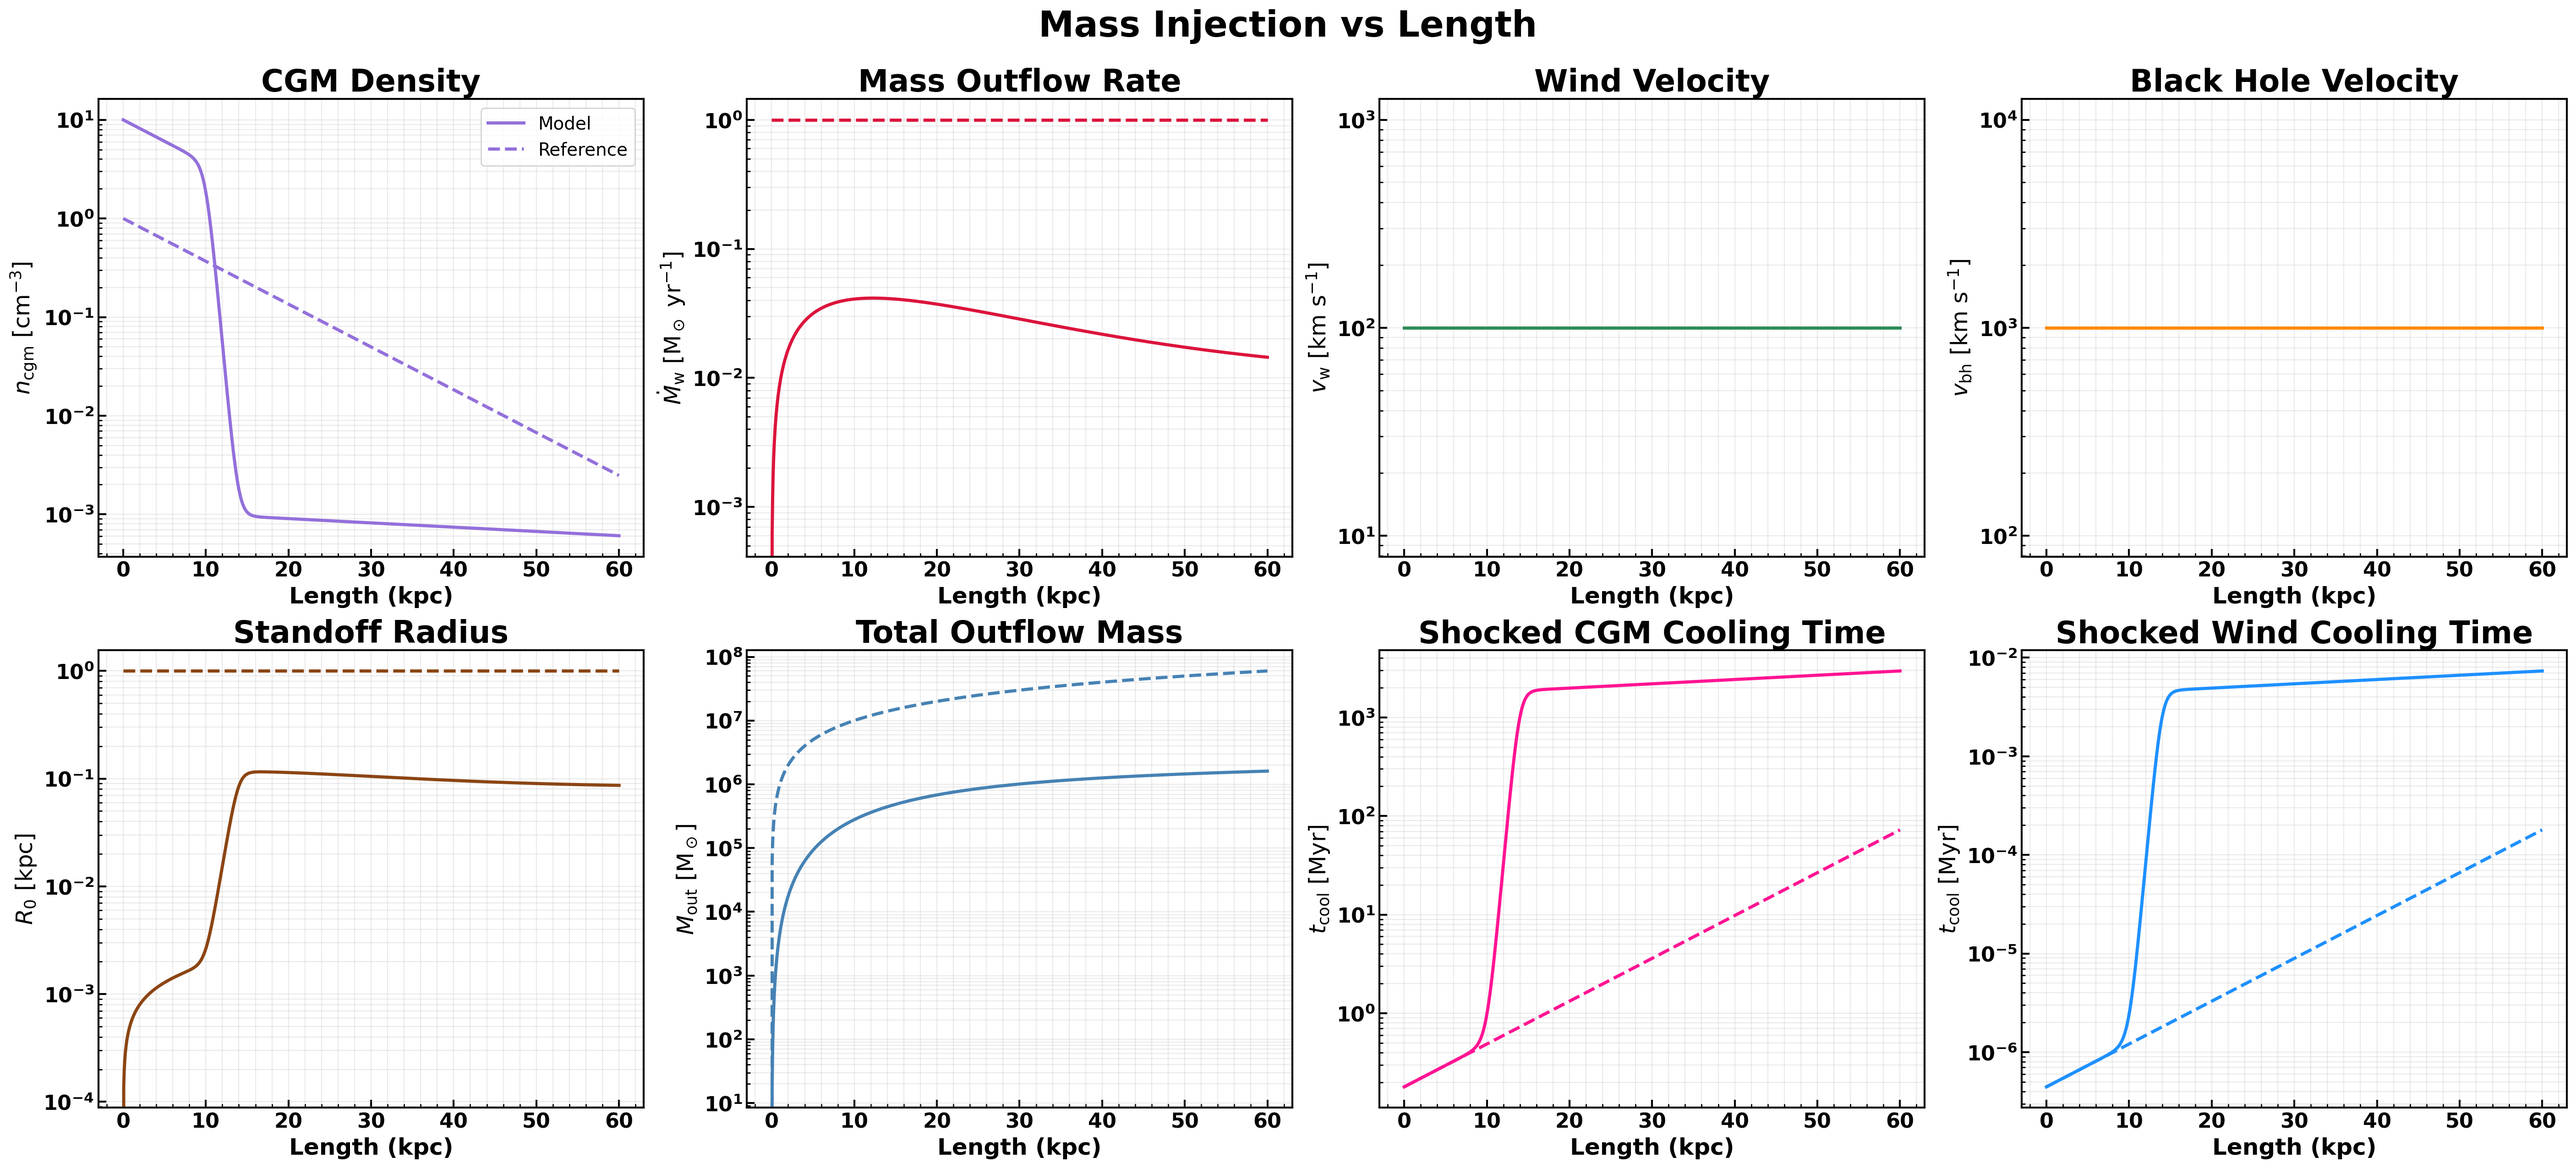
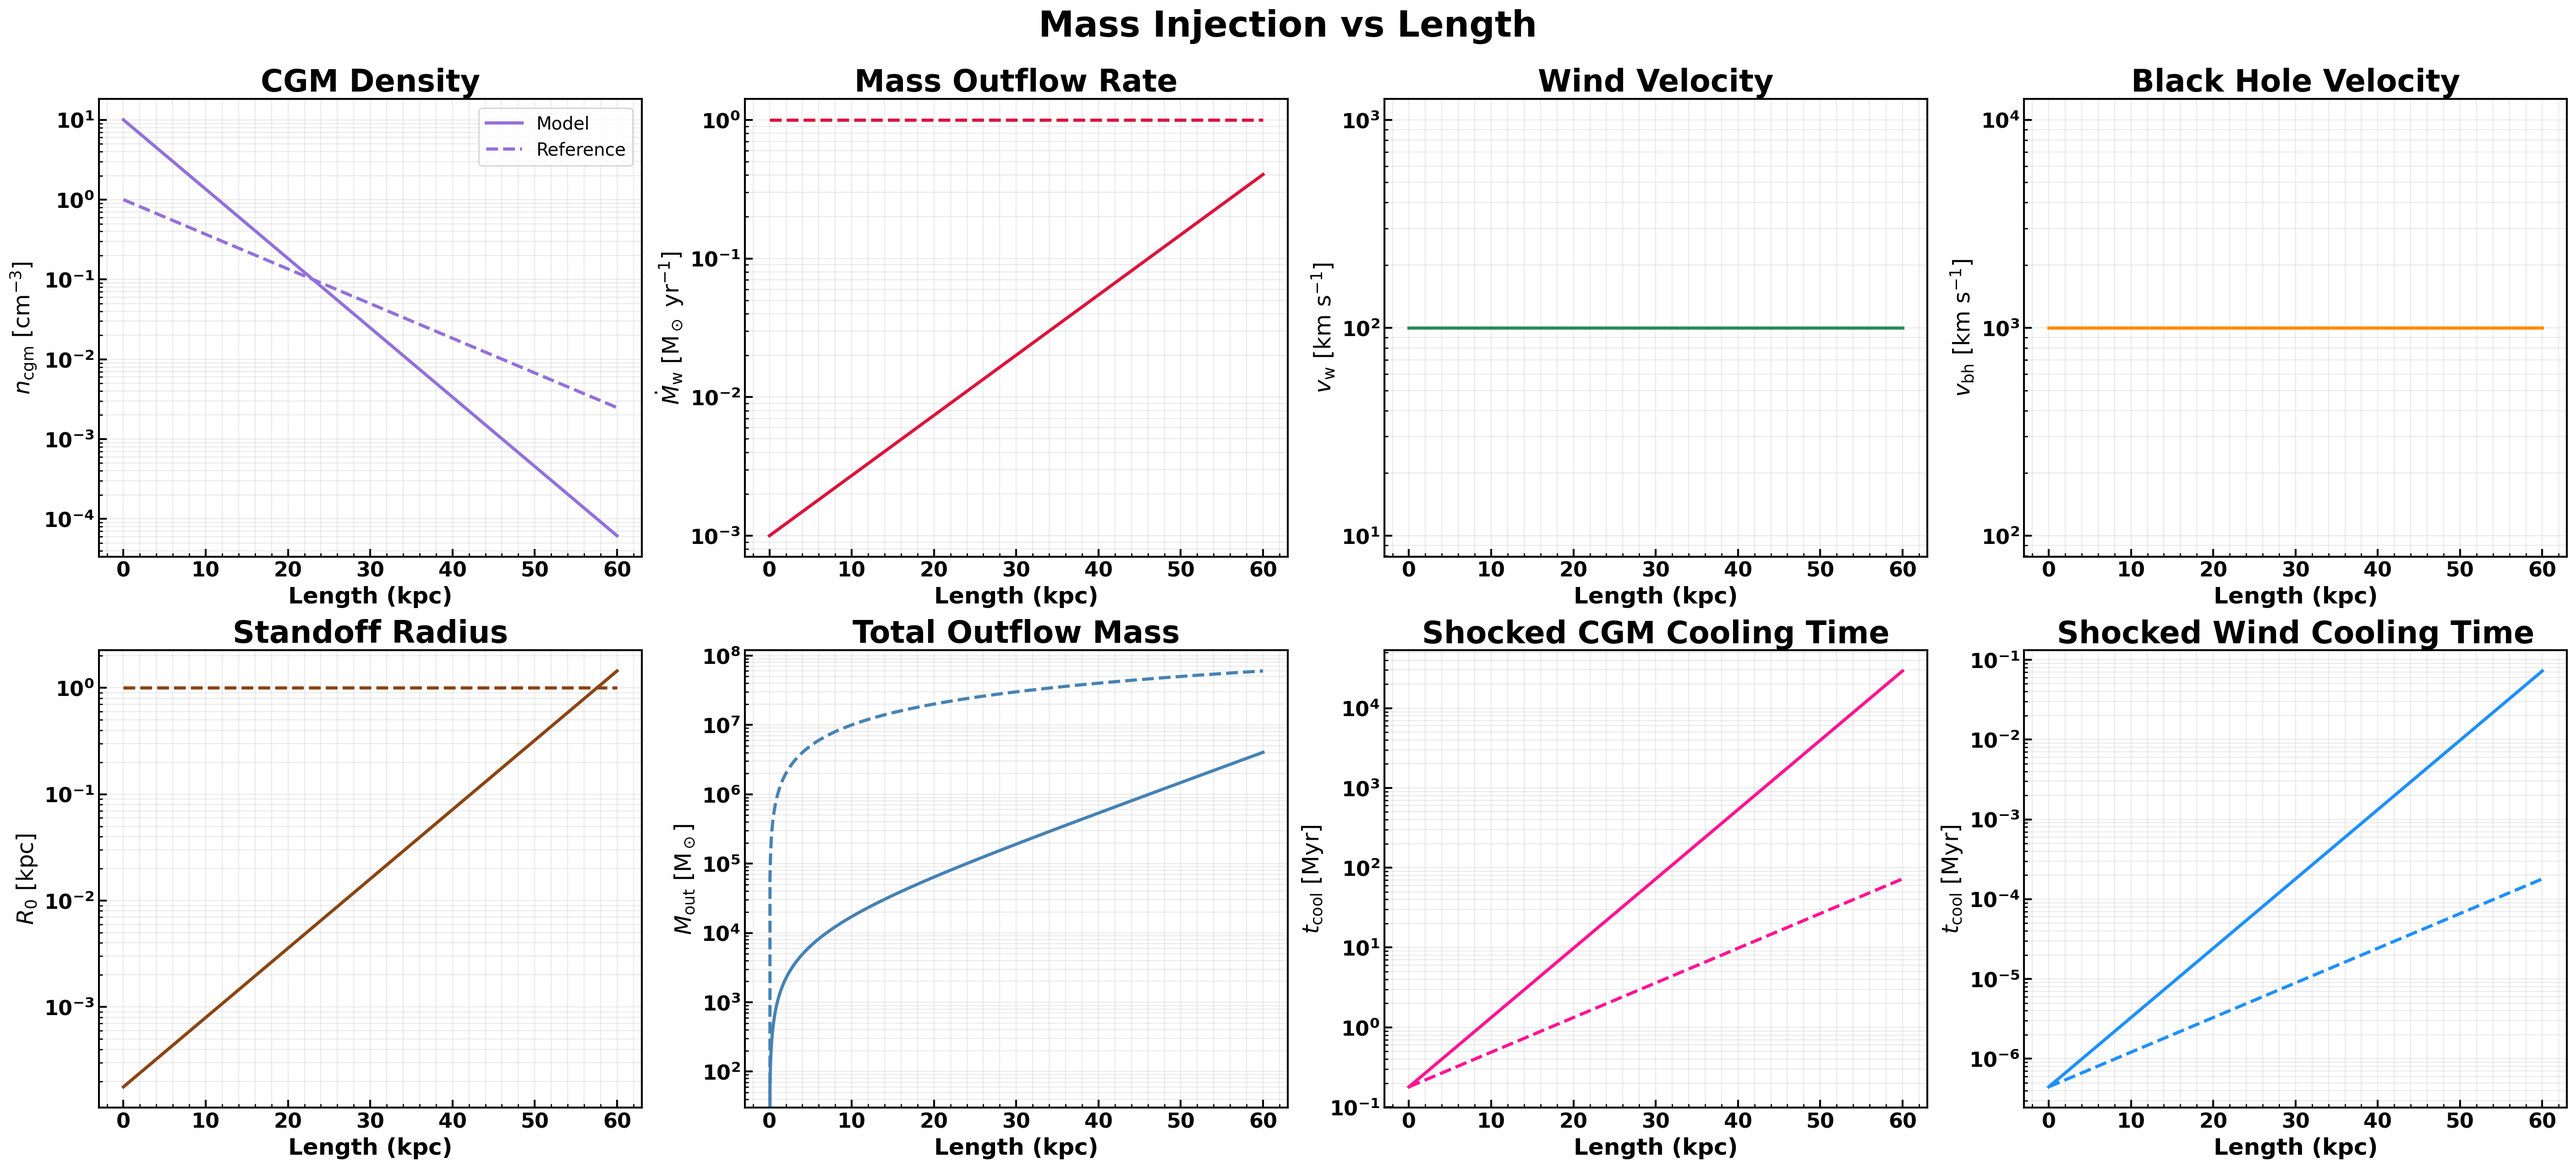
added new Mdot vs L

diff --git a/AnalyticalSol/Mdot_params/Mdot_vs_L2.py b/AnalyticalSol/Mdot_params/Mdot_vs_L2.py
@@ -1,0 +1,205 @@
+import numpy as np
+import os
+import math
+import matplotlib.pyplot as plt
+import matplotlib as mpl
+from scipy.interpolate import interp1d
+from scipy.integrate import cumulative_trapezoid
+
+script_dir = os.path.dirname(os.path.abspath(__file__))
+
+# ── Global style ─────────────────────────────────────────────────────────────
+font_size   = 18          # axis labels
+tick_size   = 16          # tick labels
+title_size  = font_size + 6
+suptitle_size = font_size + 10
+
+mpl.rcParams.update({
+    "font.family":        "sans-serif",
+    "axes.titlesize":     title_size,
+    "axes.titleweight":   "bold",
+    "axes.labelsize":     font_size,
+    "axes.labelweight":   "bold",
+    "xtick.labelsize":    tick_size,
+    "ytick.labelsize":    tick_size,
+    "xtick.major.width":  1.5,
+    "ytick.major.width":  1.5,
+    "xtick.minor.width":  1.0,
+    "ytick.minor.width":  1.0,
+    "xtick.major.size":   6,
+    "ytick.major.size":   6,
+    "xtick.minor.size":   3,
+    "ytick.minor.size":   3,
+    "xtick.direction":    "in",
+    "ytick.direction":    "in",
+    "axes.linewidth":     1.5,
+    "lines.linewidth":    2.5,
+    "grid.alpha":         0.25,
+    "grid.linewidth":     0.8,
+    "legend.fontsize":    tick_size - 2,
+})
+
+def bold_ticks(ax):
+    """Make all tick labels bold."""
+    for label in ax.get_xticklabels() + ax.get_yticklabels():
+        label.set_fontweight("bold")
+
+# ── Physics / model functions ────────────────────────────────────────────────
+def n_cgm(L_kpc):
+    n_ISM_L = n_ISM_mp_cc * np.exp(-L_kpc / H_ISM_kpc)
+    n_CGM_L = n_CGM_mp_cc * np.exp(-(L_kpc - L_tr_kpc) / H_CGM_kpc)
+    w = 0.5 * (1.0 + np.tanh((L_kpc - L_tr_kpc) / dL_kpc))
+    return (1.0 - w) * n_ISM_L + w * n_CGM_L
+    # return n_ISM_L*np.exp(-L_kpc/10)
+
+def v_bh(L_kpc):
+    return vbh_f * np.ones_like(L_kpc)
+
+
+def v_w(L_kpc):
+    dL = 5
+    L_tr = 10
+    vw_0_L = vw_0 * np.exp(-L_kpc / (10*H_ISM_kpc))
+    vw_f_L = vw_f* np.exp(-(L_kpc - L_tr) / (10*H_CGM_kpc))
+    w = 0.5 * (1.0 + np.tanh((L_kpc - L_tr) / dL))
+    return (1.0 - w) * vw_0_L + w * vw_f_L
+    # return vw_f* np.exp(np.exp(-1*(L_kpc / dL)))
+    # return vw_0* np.exp(-1*(L_kpc / dL))
+    # return vw_f * np.ones_like(L_kpc)
+
+def M_dot(L_kpc):
+    dL_rise = 10    # scale of rise
+    dL_decay = 20  # scale of decay
+    M_max  = 0.1
+    M_min  = 0.01  # floor it decays TO
+    
+    rise  = 1 - np.exp(-L_kpc / dL_rise)
+    decay = (M_max - M_min) * np.exp(-L_kpc / dL_decay) + M_min
+    Mdot  = rise * decay
+    return Mdot
+    # return 1e-3*np.exp(L_kpc/10)
+
+def R_0(L_kpc):
+    Mdot_cgs = M_dot(L_kpc) * Msun / s_yr
+    R0 = np.sqrt((Mdot_cgs*v_w(L_kpc))/(4*np.pi*n_cgm(L_kpc)*mu*mp*v_bh(L_kpc)**2))
+    # return R0 + ((Rf - R0) / 2) * (1 + np.tanh((L_kpc - L_tr) / dL))
+    return R0
+def M_total(L_array):
+    mdot_vals = M_dot(L_array)
+    M_cum = np.zeros_like(L_array)
+    for i in range(1, len(L_array)):
+        dt_yr = (L_array[i] - L_array[i - 1]) * 1e6
+        M_cum[i] = M_cum[i - 1] + 0.5 * (mdot_vals[i] + mdot_vals[i - 1]) * dt_yr
+    return M_cum
+
+def tcool_scgm(L):
+    T_scgm = (3 * mu * mp * v_bh(L)**2) / (16 * kB)
+    return (9 * mu * mp * v_bh(L)**2) / (128 * n_cgm(L) * cool_lambda(T_scgm))
+def tcool_scgm_og(L):
+    ncgm_og = n_ISM_mp_cc*np.exp(-L/10)
+    T_scgm = (3 * mu * mp * v_bh(L)**2) / (16 * kB)
+    return (9 * mu * mp * v_bh(L)**2) / (128 * ncgm_og * cool_lambda(T_scgm))
+def tcool_sw(L):
+    T_sw = (3 * mu * mp * v_w(L)**2) / (16 * kB)
+    return (9 * mu * mp * v_w(L)**4) / (128 * n_cgm(L) * v_bh(L)**2 * cool_lambda(T_sw))
+def tcool_sw_og(L):
+    vw_og = vw_f*np.ones_like(L)
+    ncgm_og = n_ISM_mp_cc*np.exp(-L/10)
+    T_sw = (3 * mu * mp * vw_og**2) / (16 * kB)
+    return (9 * mu * mp * vw_og**4) / (128 * ncgm_og * v_bh(L)**2 * cool_lambda(T_sw))
+# ── Cooling table ─────────────────────────────────────────────────────────────
+cool_dir = os.path.join(script_dir, "cooltable.dat")
+data = np.loadtxt(cool_dir)
+T_tab, Lambda_tab = data[:, 0], data[:, 1]
+Lambda_interp = interp1d(T_tab, Lambda_tab, kind='linear',
+                         bounds_error=False, fill_value='extrapolate')
+
+def cool_lambda(T):
+    return Lambda_interp(np.clip(T, T_tab.min() * 0.95, T_tab.max() * 1.05))
+
+# ── Constants ─────────────────────────────────────────────────────────────────
+G, kB, mp   = 6.67e-8, 1.38e-16, 1.67e-24
+kpc, pc     = 3.086e21, 3.086e18
+Msun        = 1.989e33
+mu          = 1.0
+s_yr, s_Myr = 3.154e7, 3.154e13
+gamma, gm1  = 5.0 / 3.0, 2.0 / 3.0
+kms         = 1e5
+
+# ── Parameters ────────────────────────────────────────────────────────────────
+n_ISM_mp_cc = 10.0
+n_CGM_mp_cc = 1e-3
+vbh_0, vbh_f = 3000 * kms, 1000 * kms
+vw_0,  vw_f  = 1e3  * kms, 1e2  * kms
+H_ISM_kpc    = 10.0
+H_CGM_kpc    = 100.0
+L_tr_kpc     = 10.0
+dL_kpc       = 1.0
+
+t = L_kpc = np.linspace(0, 60, 1000)
+
+# ── Panel definitions ─────────────────────────────────────────────────────────
+panels = {
+    "ncgm":      {"yfunc": lambda L: n_cgm(L),          "ylabel": r"$n_{\rm cgm}\ [\mathrm{cm^{-3}}]$",          "title": "CGM Density",               "color": "mediumpurple"},
+    "vw":        {"yfunc": lambda L: v_w(L) / kms,       "ylabel": r"$v_{\rm w}\ [\mathrm{km\ s^{-1}}]$",         "title": "Wind Velocity",             "color": "seagreen"},
+    "R0":        {"yfunc": lambda L: R_0(L) / kpc,       "ylabel": r"$R_0\ [\mathrm{kpc}]$",                      "title": "Standoff Radius",           "color": "saddlebrown"},
+    "vbh":       {"yfunc": lambda L: v_bh(L) / kms,      "ylabel": r"$v_{\rm bh}\ [\mathrm{km\ s^{-1}}]$",        "title": "Black Hole Velocity",       "color": "darkorange"},
+    "Mdot":      {"yfunc": lambda L: M_dot(L),            "ylabel": r"$\dot{M}_{\rm w}\ [\mathrm{M_\odot\ yr^{-1}}]$", "title": "Mass Outflow Rate",    "color": "crimson"},
+    "Mtotal":    {"yfunc": lambda L: M_total(L),          "ylabel": r"$M_{\rm out}\ [\mathrm{M_\odot}]$",           "title": "Total Outflow Mass",        "color": "steelblue"},
+    "tcool_scgm":{"yfunc": lambda L: tcool_scgm(L)/s_Myr,"ylabel": r"$t_{\rm cool}\ [\mathrm{Myr}]$",             "title": "Shocked CGM Cooling Time",  "color": "deeppink"},
+    "tcool_sw":  {"yfunc": lambda L: tcool_sw(L) /s_Myr, "ylabel": r"$t_{\rm cool}\ [\mathrm{Myr}]$",             "title": "Shocked Wind Cooling Time", "color": "dodgerblue"},
+}
+
+OG_panels = {
+    "ncgm":      {"yfunc": lambda L: 1*np.exp(-L/10),          "ylabel": r"$n_{\rm cgm}\ [\mathrm{cm^{-3}}]$",          "title": "CGM Density",               "color": "mediumpurple"},
+    "vw":        {"yfunc": lambda L: vw_f*np.ones_like(L) / kms,       "ylabel": r"$v_{\rm w}\ [\mathrm{km\ s^{-1}}]$",         "title": "Wind Velocity",             "color": "seagreen"},
+    "R0":        {"yfunc": lambda L: 1*np.ones_like(L),       "ylabel": r"$R_0\ [\mathrm{kpc}]$",                      "title": "Standoff Radius",           "color": "saddlebrown"},
+    "vbh":       {"yfunc": lambda L: v_bh(L) / kms,      "ylabel": r"$v_{\rm bh}\ [\mathrm{km\ s^{-1}}]$",        "title": "Black Hole Velocity",       "color": "darkorange"},
+    "Mdot":      {"yfunc": lambda L: 1*np.ones_like(L),            "ylabel": r"$\dot{M}_{\rm w}\ [\mathrm{M_\odot\ yr^{-1}}]$", "title": "Mass Outflow Rate",    "color": "crimson"},
+    "Mtotal":    {"yfunc": lambda L: 1e6*L,          "ylabel": r"$M_{\rm out}\ [\mathrm{M_\odot}]$",           "title": "Total Outflow Mass",        "color": "steelblue"},
+    "tcool_scgm":{"yfunc": lambda L: tcool_scgm_og(L)/s_Myr,"ylabel": r"$t_{\rm cool}\ [\mathrm{Myr}]$",             "title": "Shocked CGM Cooling Time",  "color": "deeppink"},
+    "tcool_sw":  {"yfunc": lambda L: tcool_sw_og(L) /s_Myr, "ylabel": r"$t_{\rm cool}\ [\mathrm{Myr}]$",             "title": "Shocked Wind Cooling Time", "color": "dodgerblue"},
+}
+plot_order = ["ncgm", "Mdot","vw", "vbh", "R0", "Mtotal", "tcool_scgm", "tcool_sw"]
+n_panels   = len(plot_order)
+n_rows, n_cols = 2, math.ceil(n_panels / 2)
+
+fig, ax = plt.subplots(n_rows, n_cols, figsize=(7 * n_cols, 6 * n_rows),
+                       constrained_layout=True)
+ax = np.atleast_2d(ax)
+
+for idx, key in enumerate(plot_order):
+    row, col = divmod(idx, n_cols)
+    panel    = panels[key]
+    color    = panel["color"]
+    ax_rc    = ax[row, col]
+
+    y    = panel["yfunc"](t)
+    og_y = OG_panels[key]["yfunc"](t)
+
+    ax_rc.plot(t, y,    color=color, lw=2.5, label="Model")
+    ax_rc.plot(t, og_y, color=color, lw=2.5, ls="--", label="Reference")
+    ax_rc.set_yscale("log")
+    ax_rc.set_xlabel("Length (kpc)")
+    ax_rc.set_ylabel(panel["ylabel"])
+    ax_rc.set_title(panel["title"])
+    ax_rc.grid(True, which="both")
+    ax_rc.xaxis.set_minor_locator(mpl.ticker.AutoMinorLocator())
+
+    # Bold tick labels
+    bold_ticks(ax_rc)
+
+    # Legend only on first panel
+    if idx == 0:
+        ax_rc.legend(framealpha=0.85)
+
+# Hide empty slots
+for idx in range(n_panels, n_rows * n_cols):
+    ax[divmod(idx, n_cols)].axis("off")
+
+fig.suptitle("Mass Injection vs Length", fontsize=suptitle_size, fontweight="bold", y=1.05)
+
+out_path = os.path.join(script_dir, "Mass_inj_vs_length2.png")
+fig.savefig(out_path, dpi=200, bbox_inches="tight")
+print(f"Figure saved to {out_path}")
+print(f"Final M_out = {M_total(L_kpc)[-1]:.2e}")

diff --git a/AnalyticalSol/Mdot_params/Mdot_vs_L.py b/AnalyticalSol/Mdot_params/Mdot_vs_L.py
@@ -49,8 +49,8 @@ def n_cgm(L_kpc):
     n_ISM_L = n_ISM_mp_cc * np.exp(-L_kpc / H_ISM_kpc)
     n_CGM_L = n_CGM_mp_cc * np.exp(-(L_kpc - L_tr_kpc) / H_CGM_kpc)
     w = 0.5 * (1.0 + np.tanh((L_kpc - L_tr_kpc) / dL_kpc))
-    return (1.0 - w) * n_ISM_L + w * n_CGM_L
-    # return n_ISM_L*np.exp(-L_kpc/10)
+    # return (1.0 - w) * n_ISM_L + w * n_CGM_L
+    return n_ISM_L*np.exp(-L_kpc/10)
 
 def v_bh(L_kpc):
     return vbh_f * np.ones_like(L_kpc)
@@ -61,7 +61,7 @@ def v_w(L_kpc):
     L_tr = 10
     vw_0_L = vw_0 * np.exp(-L_kpc / (10*H_ISM_kpc))
     vw_f_L = vw_f* np.exp(-(L_kpc - L_tr) / (10*H_CGM_kpc))
-    w = 0.5 * (1.0 + np.tanh((L_kpc - L_tr) / dL))
+    # w = 0.5 * (1.0 + np.tanh((L_kpc - L_tr) / dL))
     # return (1.0 - w) * vw_0_L + w * vw_f_L
     # return vw_f* np.exp(np.exp(-1*(L_kpc / dL)))
     # return vw_0* np.exp(-1*(L_kpc / dL))
@@ -73,11 +73,11 @@ def M_dot(L_kpc):
     M_max  = 0.1
     M_min  = 0.01  # floor it decays TO
     
-    rise  = 1 - np.exp(-L_kpc / dL_rise)
-    decay = (M_max - M_min) * np.exp(-L_kpc / dL_decay) + M_min
-    Mdot  = rise * decay
-    return Mdot
-    # return 1e-3*np.exp(L_kpc/10)
+    # rise  = 1 - np.exp(-L_kpc / dL_rise)
+    # decay = (M_max - M_min) * np.exp(-L_kpc / dL_decay) + M_min
+    # Mdot  = rise * decay
+    # return Mdot
+    return 1e-3*np.exp(L_kpc/10)
 
 def R_0(L_kpc):
     Mdot_cgs = M_dot(L_kpc) * Msun / s_yr

diff --git a/AnalyticalSol/unit_conversion.py b/AnalyticalSol/unit_conversion.py
@@ -47,7 +47,7 @@ v_wind  = 50*kms       #cm/s
 R0      = 0.25*kpc
 t_sys   = 70*1e6*s_yr   #s
 eta     = 0.1
-M_dot_w = 1e-4*Msun/s_yr
+M_dot_w = 1*Msun/s_yr
 Rinj    = 50*pc
 #Code Units
 L_code  = 1.0*kpc        #cm
